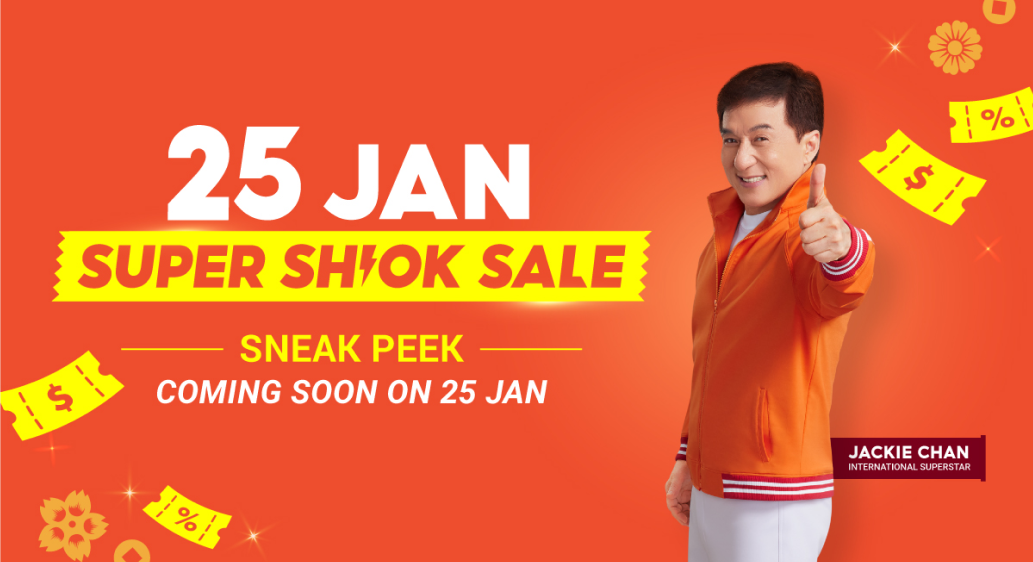
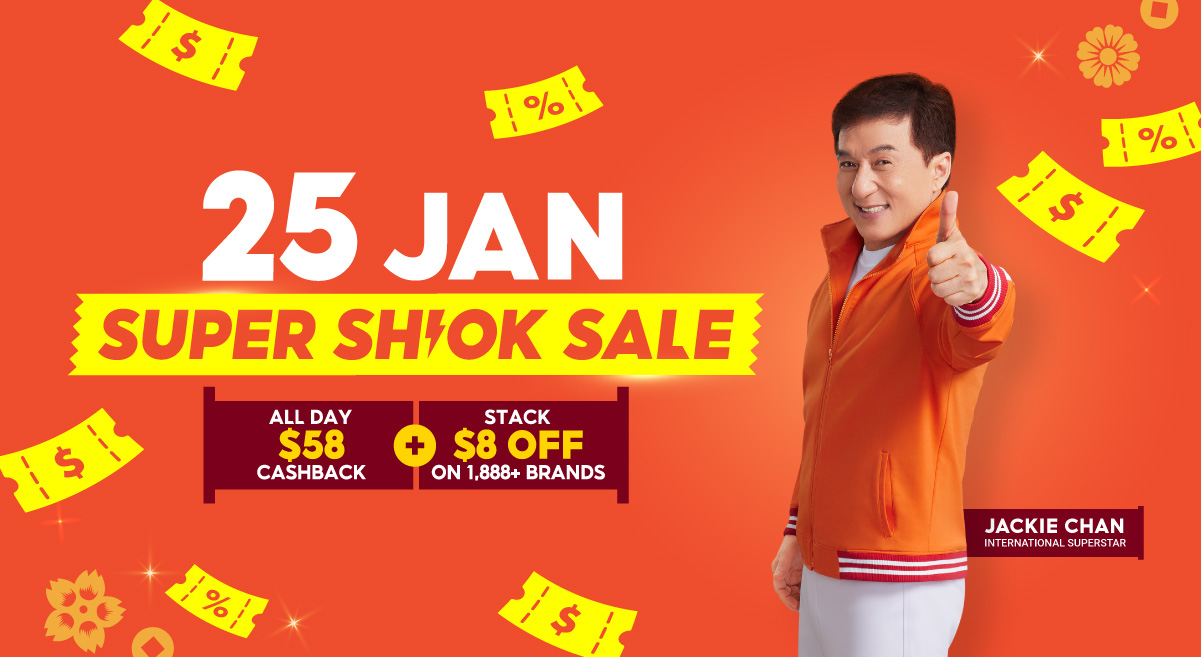
Updated Pictures for Home page slider Ad and Added more products to Products page

diff --git a/products.html b/products.html
@@ -167,15 +167,106 @@
             </div>
         </div>
 
+        <!-- Repeat similar blocks for other products -->
+
+        <div class="flex-item" data-category="shoes">
+			<div class="flex-img">
+				<img src="images/Men's Leather Shoes.jpeg">
+            </div>
+            <div class="flex-info">
+                <h4>Men's Leather Shoes</h4>
+                <p>$110.00</p>
+                <button class="addToCartButton" onclick="addToCart('product1', 'Ricky Tee - Black', 30.00)">Add to Cart</button>
+            </div>
+        </div>
+
+        <div class="flex-item" data-category="watches">
+			<div class="flex-img">
+				<img src="images/Apple Watch Series 9.jpeg">
+            </div>
+            <div class="flex-info">
+                <h4>Apple Watch Series 9</h4>
+                <p>$515.00</p>
+                <button class="addToCartButton" onclick="addToCart('product1', 'Ricky Tee - Black', 30.00)">Add to Cart</button>
+            </div>
+        </div>
+
+        <div class="flex-item" data-category="fashion">
+			<div class="flex-img">
+				<img src="images/Baggy Jeans Men.jpeg">
+            </div>
+            <div class="flex-info">
+                <h4>Baggy Jeans Men</h4>
+                <p>$14.50</p>
+                <button class="addToCartButton" onclick="addToCart('product1', 'Ricky Tee - Black', 30.00)">Add to Cart</button>
+            </div>
+        </div>
+
+        <div class="flex-item" data-category="home and living">
+			<div class="flex-img">
+				<img src="images/Shoe Rack with Seat.jpeg">
+            </div>
+            <div class="flex-info">
+                <h4>Shoe Rack with Seat</h4>
+                <p>$54.30</p>
+                <button class="addToCartButton" onclick="addToCart('product1', 'Ricky Tee - Black', 30.00)">Add to Cart</button>
+            </div>
+        </div>
+
+        <div class="flex-item" data-category="shoes">
+			<div class="flex-img">
+				<img src="images/All Star Converse Shoes.jpeg">
+            </div>
+            <div class="flex-info">
+                <h4>All Star Converse Shoes</h4>
+                <p>$95.00</p>
+                <button class="addToCartButton" onclick="addToCart('product1', 'Ricky Tee - Black', 30.00)">Add to Cart</button>
+            </div>
+        </div>
+
+        <div class="flex-item" data-category="computer and peripherals">
+			<div class="flex-img">
+				<img src="images/Wooden Keyboard Rest.jpeg">
+            </div>
+            <div class="flex-info">
+                <h4>Wooden Keyboard Rest</h4>
+                <p>$35.00</p>
+                <button class="addToCartButton" onclick="addToCart('product1', 'Ricky Tee - Black', 30.00)">Add to Cart</button>
+            </div>
+        </div>
+
+        <div class="flex-item" data-category="fashion">
+			<div class="flex-img">
+				<img src="images/Oversized Unisex Graphic Tee.jpeg">
+            </div>
+            <div class="flex-info">
+                <h4>Wooden Keyboard Rest</h4>
+                <p>$35.00</p>
+                <button class="addToCartButton" onclick="addToCart('product1', 'Ricky Tee - Black', 30.00)">Add to Cart</button>
+            </div>
+        </div>
+
+        <div class="flex-item" data-category="home and living">
+			<div class="flex-img">
+				<img src="images/">
+            </div>
+            <div class="flex-info">
+                <h4>Wooden Keyboard Rest</h4>
+                <p>$35.00</p>
+                <button class="addToCartButton" onclick="addToCart('product1', 'Ricky Tee - Black', 30.00)">Add to Cart</button>
+            </div>
+        </div>
+
+
+
+
+
+        
+    
+        
         
 
-
-
-
-        
-        
-
-            <!-- Repeat similar blocks for other products -->
+            
     </section>
    
 </body>

diff --git a/index.html b/index.html
@@ -31,7 +31,7 @@
                 <div class="swiper-wrapper">
                 <!--Slides-->
                 <div class="swiper-slide"> <img src="images/eShop1.png"> </div>
-                <div class="swiper-slide"> <img src="images/eShop2.png"> </div>
+                <div class="swiper-slide"> <img src="images/eShop2.jpeg"> </div>
                 <div class="swiper-slide"> <img src="images/eShop3.png"> </div>               
 
                 </div>
